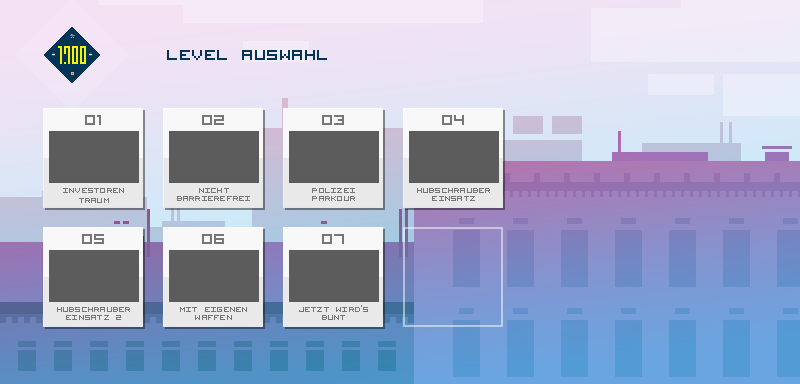
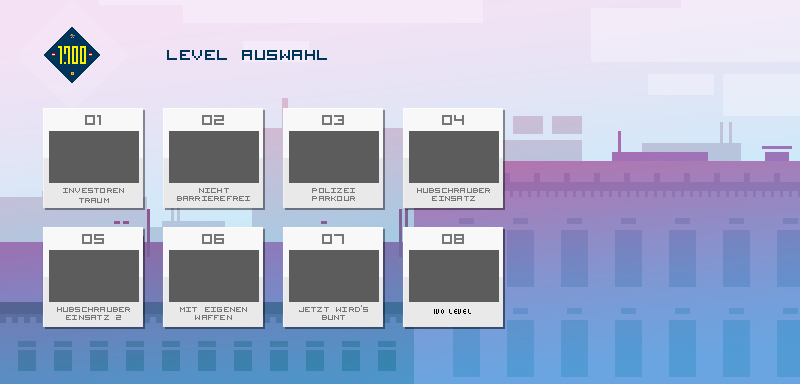
Neues Level, Neue Action (Single Jump), Bug #30 gefixt.

Changed region(s): [[0.5, 0.5938, 0.6562, 0.875]]

diff --git a/1700Easel/src/actions.js b/1700Easel/src/actions.js
@@ -77,6 +77,7 @@ function Action() {
 	this.possibleActions.push( Bash);
 	this.possibleActions.push( Build);
 	this.possibleActions.push( Jump);
+	this.possibleActions.push( JumpSingle);
 }
 
 Action.prototype=new Act();
@@ -84,6 +85,12 @@ Action.prototype=new Act();
 function Fall() {
 	this.height=0;
 	this.paraOpen=false;
+	this.possibleActions = new Array();
+	this.possibleActions.push(Bomb);
+	this.possibleActions.push(Walk);
+	this.possibleActions.push(Kill);
+	this.possibleActions.push(Climb);
+	this.possibleActions.push(Float);
 }
 Fall.prototype=new Action();
 
@@ -508,6 +515,46 @@ Jump.prototype.act = function() {
 }
 
 
+/////////// JUMP SINGLE
+function JumpSingle() {
+	this.startTime=Date.now();
+	this.jumpProcedure=1;
+	this.height=0;
+	this.paraOpen=false;
+	this.possibleActions = new Array();
+	this.possibleActions.push(Bomb);
+	this.possibleActions.push(Walk);
+	this.possibleActions.push(Kill);
+	this.possibleActions.push(Climb);
+	this.possibleActions.push(Float);
+	//////
+}
+JumpSingle.prototype=new Action();
+
+JumpSingle.prototype.check=function() {
+	if (!this.lemming.hasFloor() && this.jumpProcedure>1) {
+		this.lemming.setAction(new Fall());
+		return false;
+	}
+	if (this.lemming.againstWall()) {
+		this.lemming.reverse();
+	}
+	return true;
+}
+
+JumpSingle.prototype.act = function() {
+		this.effect("Ha");
+		this.jumpProcedure--;
+		this.lemming.y-=((this.jumpProcedure+10)/2);
+		this.lemming.x+=this.lemming.direction*this.lemming.speed;
+		this.lemming.floor=-1;
+		if (this.lemming.hasFloor() || this.jumpProcedure<-17)
+			this.lemming.setAction(new Walk());
+		this.lemming.x+=this.lemming.direction*this.lemming.speed;
+		if (this.jumpProcedure<-17)
+			this.lemming.setAction(new Walk());
+}
+/////////////ENDE JUMP SINGLE
 
 
 

diff --git a/1700Easel/src/mainScreen.js b/1700Easel/src/mainScreen.js
@@ -125,7 +125,7 @@ SelectLevel.prototype.init = function () {
 		this.level.buttons.push(new LevelButton(42,228,100,100,"heliBridge"));
 		this.level.buttons.push(new LevelButton(162,228,100,100,"block"));
 		this.level.buttons.push(new LevelButton(282,228,100,100,"devLevel"));
-//		this.level.buttons.push(new LevelButton(500,200,100,100,""));
+  		this.level.buttons.push(new LevelButton(402,200,100,100,"IvoLevel"));
 //		this.level.buttons.push(new LevelButton(650,200,100,100,""));
 //		this.level.buttons.push(new LevelButton(800,200,100,100,""));
 		soundPlayer.play("atmolong");
@@ -211,6 +211,7 @@ FolderLevel.prototype.init = function() {
 		this.loader.loadImage("img/actions/fastForward.png",new Image());
 		this.loader.loadImage("img/actions/float.png",new Image());
 		this.loader.loadImage("img/actions/jumpAll.png",new Image());
+		this.loader.loadImage("img/actions/jumpSingle.png",new Image());
 		this.loader.loadImage("img/actions/mine.png",new Image());
 		this.loader.loadImage("img/actions/minus.png",new Image());
 		this.loader.loadImage("img/actions/plus.png",new Image());
@@ -223,6 +224,7 @@ FolderLevel.prototype.init = function() {
 		this.loader.loadImage("img/actions/digS.png",new Image());
 		this.loader.loadImage("img/actions/floatS.png",new Image());
 		this.loader.loadImage("img/actions/jumpAllS.png",new Image());
+		this.loader.loadImage("img/actions/jumpSingleS.png",new Image());
 		this.loader.loadImage("img/actions/mineS.png",new Image());
 
 		

diff --git a/1700Easel/src/control.js b/1700Easel/src/control.js
@@ -20,15 +20,15 @@ Control.prototype.init = function() {
 	this.addControl(237, 350, Dig,"dig");
 	
 	this.addControl(271, 350, JumpAll,"jumpAll");
+	this.addControl(305, 350, JumpSingle, "jumpSingle");  ///<-Einzel sprung
 	
-	this.addGlobalControl(305, 350, MorePolicemen,"plus");
-	this.addGlobalControl(339, 350, LessPolicemen,"minus");
+	this.addGlobalControl(339, 350, MorePolicemen,"plus");
+	this.addGlobalControl(373, 350, LessPolicemen,"minus");
 	
-	
-	
-	this.addGlobalControl(373, 350, FinishSpeed,"fastForward");
-	this.addGlobalControl(407, 350, BombAll,"bombAll");
+	this.addGlobalControl(407, 350, FinishSpeed,"fastForward");
+	this.addGlobalControl(441, 350, BombAll,"bombAll");
 }
+
 function JumpAll() {
 	this.multiSelect=true;
 }
@@ -36,6 +36,7 @@ function JumpAll() {
 
 Control.prototype.showPic = function(x,y,picName) {
 	picName = "img/actions/"+picName+".png";
+	
 	pic = globalLoader.getImage(picName);
 	bitmap= new createjs.Bitmap(pic);
 	bitmap.y=y;
@@ -44,7 +45,9 @@ Control.prototype.showPic = function(x,y,picName) {
 };
 
 Control.prototype.showEntityPic = function(x,y,picName,displayEntity) {
+	
 	picName = "img/actions/"+picName+".png";
+	console.log(picName);
 	pic = globalLoader.getImage(picName);
 	bitmap= displayEntity.addBitmap(pic,false).element;
 	return bitmap;

diff --git a/1700Easel/src/engine/interaction.js b/1700Easel/src/engine/interaction.js
@@ -190,14 +190,17 @@ DesktopInteraction.prototype.init = function() {
     	game.mouseX=evt.stageX;
     	game.mouseY=evt.stageY;
     	//console.log("mainClick");
-    	if (Date.now()-that.lastClick>30) {
-	    	if (game.selectedLemming  && game.selectedLemming.under(evt.stageX,evt.stageY)) {
-				game.selectedLemming.select();
-			}
-			else
-				interactionHandler.select(evt.stageX,evt.stageY);
-    	}
-    	that.lastClick=Date.now();
+    	
+    	
+    	//this is double functionality
+//    	if (Date.now()-that.lastClick>30) {
+//	    	if (game.selectedLemming  && game.selectedLemming.under(evt.stageX,evt.stageY)) {
+//				game.selectedLemming.select();
+//			}
+//			else
+//				interactionHandler.select(evt.stageX,evt.stageY);
+//    	}
+//    	that.lastClick=Date.now();	
     	that.mouseDown=true;
     });
 //    stage.on("pressmove", function(evt) {

diff --git a/1700Easel/src/lemming.js b/1700Easel/src/lemming.js
@@ -185,6 +185,7 @@ Lemming.prototype.left=function(x,y) {
 }
 
 Lemming.prototype.collected=function(time) {
+	console.log("collected");
 	if (game.control.selectedAction === JumpAll) {
 		jump = new Jump();
 		jump.jumpCount=time;
